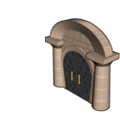
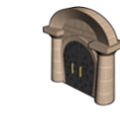
Nuevas imagenes para las puertas y panel publicitario

diff --git a/gg/GG/utils.py b/gg/GG/utils.py
@@ -65,8 +65,7 @@ ANIM_WALKING_TIME = int(TICK_DELAY*ANIM_WALKING_COUNT*100)
 TEXT_COLOR = {"black": 0, "blue": 1}
 
 # Player headings.
-HEADING = {0: "none", 1: "up", 2: "down", 3: "left", 4: "right",
-           5: "topleft", 6: "bottomright", 7: "bottomleft", 8: "topright"}
+HEADING = {0: None, 1: "up", 2: "down", 3: "left", 4: "right", 5: "topleft", 6: "bottomright", 7: "bottomleft", 8: "topright"}
 # Player states.
 STATE = {1: "standing", 2: "walking", 3: "standing_carrying", 4: "walking_carrying", 5: "standing_sleeping"}
 
@@ -259,36 +258,57 @@ RIVERS = ["rioCurvaDchDown.png","rioCurvaDchUp.png","rioCurvaIzqDown.png","rioCu
 
 DOOR_CORINTHIAN_UP = os.path.join(FURNITURE_PATH, "puertaCorintiaUp.png")
 DOOR_CORINTHIAN_LEFT = os.path.join(FURNITURE_PATH, "puertaCorintiaLeft.png")
+DOOR_CORINTHIAN_DOWN = os.path.join(FURNITURE_PATH, "puertaCorintiaDown.png")
+DOOR_CORINTHIAN_RIGHT = os.path.join(FURNITURE_PATH, "puertaCorintiaRight.png")
 
 DOOR_DORIC_UP = os.path.join(FURNITURE_PATH, "puertaDoricaUp.png")
 DOOR_DORIC_LEFT = os.path.join(FURNITURE_PATH, "puertaDoricaLeft.png")
+DOOR_DORIC_DOWN = os.path.join(FURNITURE_PATH, "puertaDoricaDown.png")
+DOOR_DORIC_RIGHT = os.path.join(FURNITURE_PATH, "puertaDoricaRight.png")
 
 DOOR_IONIAN_UP = os.path.join(FURNITURE_PATH, "puertaJonicaUp.png")
 DOOR_IONIAN_LEFT = os.path.join(FURNITURE_PATH, "puertaJonicaLeft.png")
+DOOR_IONIAN_DOWN = os.path.join(FURNITURE_PATH, "puertaJonicaDown.png")
+DOOR_IONIAN_RIGHT = os.path.join(FURNITURE_PATH, "puertaJonicaRight.png")
 
 DOOR_SALOMONIC_UP = os.path.join(FURNITURE_PATH, "puertaSalomonicaUp.png")
 DOOR_SALOMINIC_LEFT = os.path.join(FURNITURE_PATH, "puertaSalomonicaLeft.png")
+DOOR_SALOMINIC_DOWN = os.path.join(FURNITURE_PATH, "puertaSalomonicaDown.png")
+DOOR_SALOMINIC_RIGHT = os.path.join(FURNITURE_PATH, "puertaSalomonicaRight.png")
 
 DOOR_WALL_UP = os.path.join(FURNITURE_PATH, "puertaMuroUp.png")
 DOOR_WALL_LEFT = os.path.join(FURNITURE_PATH, "puertaMuroLeft.png")
+DOOR_WALL_DOWN = os.path.join(FURNITURE_PATH, "puertaMuroDown.png")
+DOOR_WALL_RIGHT = os.path.join(FURNITURE_PATH, "puertaMuroRight.png")
 
 DOOR_ROAD_UP = os.path.join(FURNITURE_PATH, "puertaCarreteraUp.png")
 DOOR_ROAD_LEFT = os.path.join(FURNITURE_PATH, "puertaCarreteraLeft.png")
+DOOR_ROAD_DOWN = os.path.join(FURNITURE_PATH, "puertaCarreteraDown.png")
+DOOR_ROAD_RIGHT = os.path.join(FURNITURE_PATH, "puertaCarreteraRight.png")
 
 DOOR_FENCE_UP = os.path.join(FURNITURE_PATH, "puertaVallaUp.png")
 DOOR_FENCE_LEFT = os.path.join(FURNITURE_PATH, "puertaVallaLeft.png")
+DOOR_FENCE_DOWN = os.path.join(FURNITURE_PATH, "puertaVallaDown.png")
+DOOR_FENCE_RIGHT = os.path.join(FURNITURE_PATH, "puertaVallaRight.png")
 
 DOOR_DOWN = os.path.join(FURNITURE_PATH, "downArrow.png")
 DOOR_UP = os.path.join(FURNITURE_PATH, "upArrow.png")
 DOOR_LEFT = os.path.join(FURNITURE_PATH, "leftArrow.png")
 DOOR_RIGHT = os.path.join(FURNITURE_PATH, "rightArrow.png")
 
-DOORS = ["puertaCorintiaUp.png","puertaCorintiaLeft.png","puertaDoricaUp.png","puertaDoricaLeft.png","puertaJonicaUp.png","puertaJonicaLeft.png","puertaSalomonicaUp.png","puertaSalomonicaLeft.png","puertaMuroUp.png","puertaMuroLeft.png","puertaCarreteraUp.png","puertaCarreteraLeft.png","downArrow.png","upArrow.png","leftArrow.png","rightArrow.png","puertaVallaUp.png","puertaVallaLeft.png"]
+DOORS = ["puertaCorintiaUp.png","puertaCorintiaLeft.png","puertaDoricaUp.png","puertaDoricaLeft.png","puertaJonicaUp.png","puertaJonicaLeft.png","puertaSalomonicaUp.png","puertaSalomonicaLeft.png","puertaMuroUp.png","puertaMuroLeft.png","puertaCarreteraUp.png","puertaCarreteraLeft.png","downArrow.png","upArrow.png","leftArrow.png","rightArrow.png","puertaVallaUp.png","puertaVallaLeft.png","puertaCorintiaDown.png","puertaCorintiaRight.png","puertaDoricaDown.png","puertaDoricaRight.png","puertaJonicaDown.png","puertaJonicaRight.png","puertaSalomonicaDown.png","puertaSalomonicaRight.png","puertaCarreteraDown.png","puertaCarreteraRight.png","puertaMuroDown.png","puertaMuroRight.png","puertaVallaDown.png","puertaVallaRight.png"]
 
+
+#=============== PANNELS ==================================================================
+
+PANNEL_UP = os.path.join(FURNITURE_PATH, "panelUp.png")
+PANNEL_LEFT = os.path.join(FURNITURE_PATH, "panelLeft.png")
+
+PANNELS = ["panelUp.png", "panelLeft.png"]
 
 #=============== WEBS ==================================================================
 
-WEBS = WALLS + DECORATORS + STACKS + KEYS + INVENTORYS + DOORS
+WEBS = WALLS + DECORATORS + STACKS + KEYS + INVENTORYS + DOORS + PANNELS
 
 #=============== RANDOMS ==================================================================
 

diff --git a/gg/GG/isoview/isoview_hud.py b/gg/GG/isoview/isoview_hud.py
@@ -129,6 +129,7 @@ class IsoViewHud(isoview.IsoView):
     self.__fullscreenButton = None
     self.__privateChatButton = None
     self.__buttonBarActions = None
+    self.windowAdminActions = None
     model.subscribeEvent('chatAdded', self.chatAdded)
     subscriptionList = []
     subscriptionList.append(['quizAdded', self.quizAdded])
@@ -250,8 +251,6 @@ class IsoViewHud(isoview.IsoView):
         else:  
           if event.key == K_LCTRL or event.key == K_RCTRL:
             self.__ctrl = True 
-          if event.key == K_ESCAPE:
-            GG.genteguada.GenteGuada.getInstance().finish()
           elif event.key == K_RETURN:
             self.__processEnterKey()
       elif event_type == MOUSEBUTTONDOWN:
@@ -290,7 +289,7 @@ class IsoViewHud(isoview.IsoView):
         if not self.__createItemsWindow.isInside([cordX, cordY]):  
           self.__createItemsWindow.setNewPosition(dest)    
       if self.__adminMenu and "Posicion" in self.editableFields.keys():
-        if not self.buttonBarAdminActions.isInside([cordX, cordY]):
+        if not guiobjects.isInside(self.windowAdminActions, [cordX, cordY]):
           self.editableFields["Posicion"][0].text = str(dest[0])
           self.editableFields["Posicion"][1].text = str(dest[1])
   
@@ -931,8 +930,12 @@ class IsoViewHud(isoview.IsoView):
     actions = adminActions
     if not actions:
       return
+    self.windowAdminActions = ocempgui.widgets.Window("Edición de objetos".decode("utf-8"))
+    self.windowAdminActions.topleft = [GG.utils.SCREEN_SZ[0] - 151, 1]
+    self.windowAdminActions.zOrder = 15000
     YShift = 50
-    self.buttonBarAdminActions = guiobjects.OcempPanel(150, 427, [GG.utils.SCREEN_SZ[0] - 151, 1], GG.utils.ADMIN_ACTIONS_LARGE_BACKGROUND)
+    self.buttonBarAdminActions = guiobjects.OcempPanel(150, 427, [0, 0], GG.utils.ADMIN_ACTIONS_LARGE_BACKGROUND)
+    self.windowAdminActions.child = self.buttonBarAdminActions
     filePath =  GG.genteguada.GenteGuada.getInstance().getDataPath(itemImageLabel)
     guiobjects.generateImageSize(filePath, [23,23], TOOLBAR_IMAGE)
     img = guiobjects.OcempImageButtonTransparent(TOOLBAR_IMAGE)
@@ -988,9 +991,8 @@ class IsoViewHud(isoview.IsoView):
     self.buttonBarAdminActions.add_child(okButton)
     cancelButton = guiobjects.createButton(GG.utils.TINY_CANCEL_IMAGE, [80, 35 + buttonsHeight], ["Descartar cambios", self.showTooltip, self.removeTooltip], self.discardChanges)
     self.buttonBarAdminActions.add_child(cancelButton)
-    self.buttonBarAdminActions.zOrder = 10000
-    self.addSprite(self.buttonBarAdminActions)
-    self.widgetContainer.add_widget(self.buttonBarAdminActions)
+    self.addSprite(self.windowAdminActions)
+    self.widgetContainer.add_widget(self.windowAdminActions)
     self.__adminMenu = True
   
   def itemSelectedByUser(self, itemName, itemImageLabel, options):
@@ -1310,8 +1312,9 @@ class IsoViewHud(isoview.IsoView):
     for child in self.buttonBarAdminActions.children:
       self.buttonBarAdminActions.remove_child(child)
       child.destroy()
-    self.widgetContainer.remove_widget(self.buttonBarAdminActions)
-    self.buttonBarAdminActions.destroy()
+    self.widgetContainer.remove_widget(self.windowAdminActions)
+    self.windowAdminActions.destroy()
+    self.windowAdminActions = None
     self.__adminMenu = False
 
   def itemToInventory(self):

diff --git a/gg/GG/model/ggsession.py b/gg/GG/model/ggsession.py
@@ -170,7 +170,8 @@ class GGSession(ggmodel.GGModel):
       "Andatuz hablador": {"position": pos, "label": "", "message": "", "images": GG.utils.PENGUINS_TALKERS },
       "Andatuz cambiador": { "position": pos, "label": "", "gift": "", "message": "", "images": GG.utils.PENGUINS_GIVERS },
       "Regalos":{ "position": pos, "label": "", "imagesGift": self.getImagesGift()},
-      "Posicion aleatoria":{ "position": pos, "label": "", "images": GG.utils.RANDOMS }
+      "Posicion aleatoria":{ "position": pos, "label": "", "images": GG.utils.RANDOMS},
+      "Panel publicitario":{ "position": pos, "images": GG.utils.PANNELS}
     }
     return self.objectsDict
     
@@ -254,6 +255,8 @@ class GGSession(ggmodel.GGModel):
         object = room_item.GGRiver(images)
       elif objectLabel == "Dinero":
         object = pickable_item.PaperMoney(images)
+      elif objectLabel == "Panel publicitario":
+        object = web_item.GGWebItem(images, "http://www.opensourceworldconference.com", "Panel conferencia")
       room.addItemFromVoid(object, position)
 
   def __createObjectImagesPositionLabel(self, data, room, objectLabel):
@@ -363,7 +366,7 @@ class GGSession(ggmodel.GGModel):
     data: object data.
     """  
     room = self.__player.getRoom()
-    if name in ["Muros", "Decorativos", "Rios", "Dinero", "Costa"]:
+    if name in ["Muros", "Decorativos", "Rios", "Dinero", "Costa", "Panel publicitario"]:
       self.__createObjectImagesPosition(data, room, name)
     elif name in ["Apilables","Llaves","Inventario","Posicion aleatoria"]:
       self.__createObjectImagesPositionLabel(data, room, name)

diff --git a/gg/GG/isoview/guiobjects.py b/gg/GG/isoview/guiobjects.py
@@ -888,12 +888,11 @@ def loadSprite(imageName, loadRect, topleft=None, zOrder=None):
     image.zOrder = 0    
   return image  
     
-
 def getOffset(imageFile):
   im = Image.open(imageFile)
   sizeImage = im.size
   if sizeImage[0] > GG.utils.TILE_SZ[0]:
-    offsetX = GG.utils.FLOOR_SHIFT[0] - ((sizeImage[0] - GG.utils.TILE_SZ[0]) / 2)
+    offsetX = GG.utils.FLOOR_SHIFT[0] + ((sizeImage[0] - GG.utils.TILE_SZ[0]) / 2)
   else:
     offsetX = GG.utils.FLOOR_SHIFT[0]
   if sizeImage[1] > GG.utils.TILE_SZ[1]:
@@ -902,7 +901,6 @@ def getOffset(imageFile):
     offsetY = GG.utils.FLOOR_SHIFT[1]
   return [offsetX, offsetY]
 
-
 def getTopOffset(anchor ,imageFile):
   try:
     yTopOffset = GG.utils.STACKS_TOPANCHOR[os.path.split(imageFile)[-1]]
@@ -910,3 +908,10 @@ def getTopOffset(anchor ,imageFile):
     yTopOffset = 0
   yTopAnchor = GG.utils.TILE_SZ[1] + anchor[1] + yTopOffset
   return [0,yTopAnchor]
+
+def isInside(window, pos):
+  if (window.topleft[0] <= pos[0] <= (window.topleft[0] + window.width)): 
+    if (window.topleft[1] <= pos[1] <= (window.topleft[1] + window.height)):
+      return True
+  return False
+

diff --git a/gg/GG/genteguada.py b/gg/GG/genteguada.py
@@ -25,6 +25,7 @@ UPLOAD_MASK = os.path.join(GG.utils.PATH_PHOTO_MASK,"imgUpload.png")
 ERROR_CONNECTION = "No hay conexion con el servidor"
 FPS = 30
 ICON = os.path.join("icons", "icon64.png") 
+IMG_ERROR = os.path.join(GG.utils.LOCAL_DATA_PATH, "error", "error.png")
 
 class GenteGuada:
   """ GenteGuada class.
@@ -201,9 +202,12 @@ class GenteGuada:
       pathFile = os.path.join(GG.utils.LOCAL_DATA_PATH, newImgName)
       if not os.path.isfile(pathFile):
         imgData = self.__system.getResource(img) 
-        imgFile = open(os.path.join(GG.utils.LOCAL_DATA_PATH, newImgName), "wb")
-        imgFile.write(imgData)
-        imgFile.close()
+        if imgData:
+          imgFile = open(os.path.join(GG.utils.LOCAL_DATA_PATH, newImgName), "wb")
+          imgFile.write(imgData)
+          imgFile.close()
+        else:
+          return IMG_ERROR
       return os.path.join(GG.utils.LOCAL_DATA_PATH, newImgName)
 
   def getListDataPath(self, imgList):

diff --git a/gg/GG/model/ggsystem.py b/gg/GG/model/ggsystem.py
@@ -95,7 +95,7 @@ class GGSystem(dMVC.model.Model):
     user: user name.
     passwd: user password.
     """  
-    #return "A"
+    return "A"
     #return True
     params = urllib.urlencode({"usuario": user, "password": passwd})  
     guadalinexLogin = urllib2.urlopen("http://www.guadalinex.org/usrdata?" +params)  
@@ -215,9 +215,12 @@ class GGSystem(dMVC.model.Model):
     img: resource path.
     date: current date.
     """
-    imgFile = open(os.path.join(GG.utils.DATA_PATH, img), "rb")
-    imgData = imgFile.read()
-    imgFile.close()
+    try:
+      imgFile = open(os.path.join(GG.utils.DATA_PATH, img), "rb")
+      imgData = imgFile.read()
+      imgFile.close()
+    except:
+      imgData = None
     return imgData
 
   def uploadFile(self, fileName, fileData, dirDest = None):

diff --git a/gg/GG/model/player.py b/gg/GG/model/player.py
@@ -593,6 +593,7 @@ class GGPlayer(item_with_inventory.GGItemWithInventory):
     if dest == None or self.getRoom().getTile(dest).getDepth():
       self.newChatMessage("No puedo saltar allí", 1)
       return
+    self.setUnselectedItem()
     self.setHeading(heading)
     self.setDestination(dest)
     self.setPosition(dest, 1)
